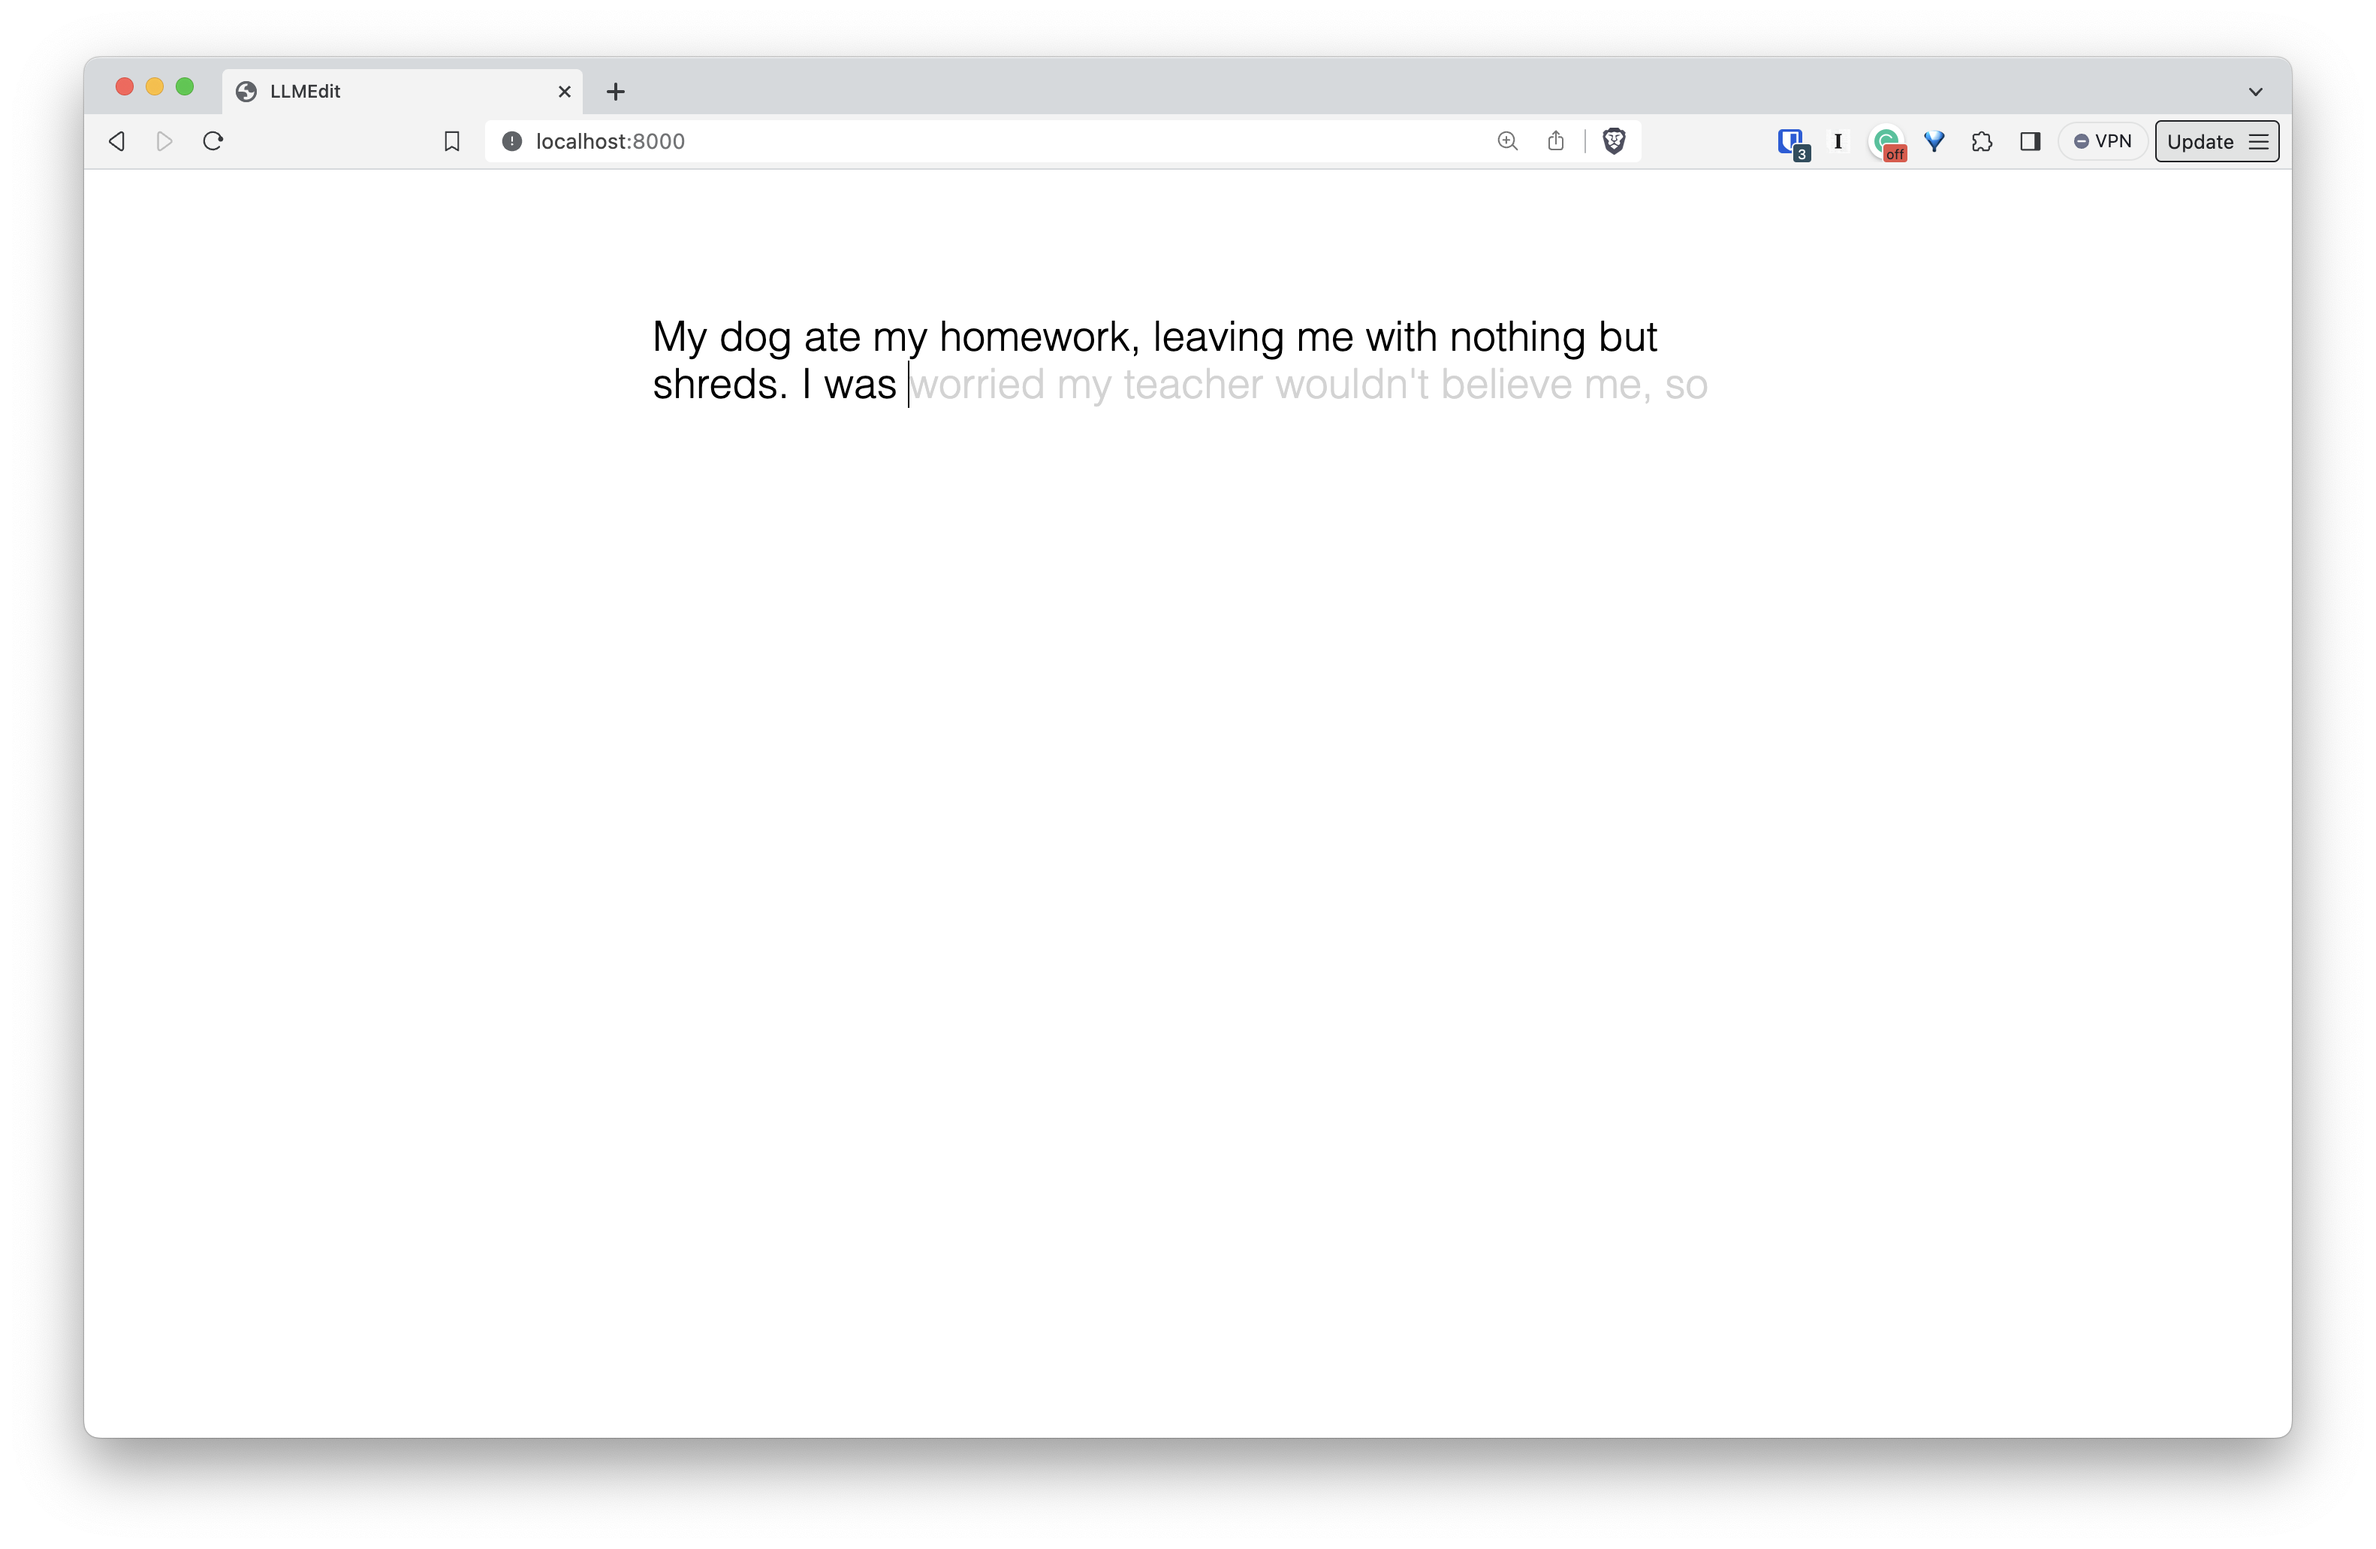
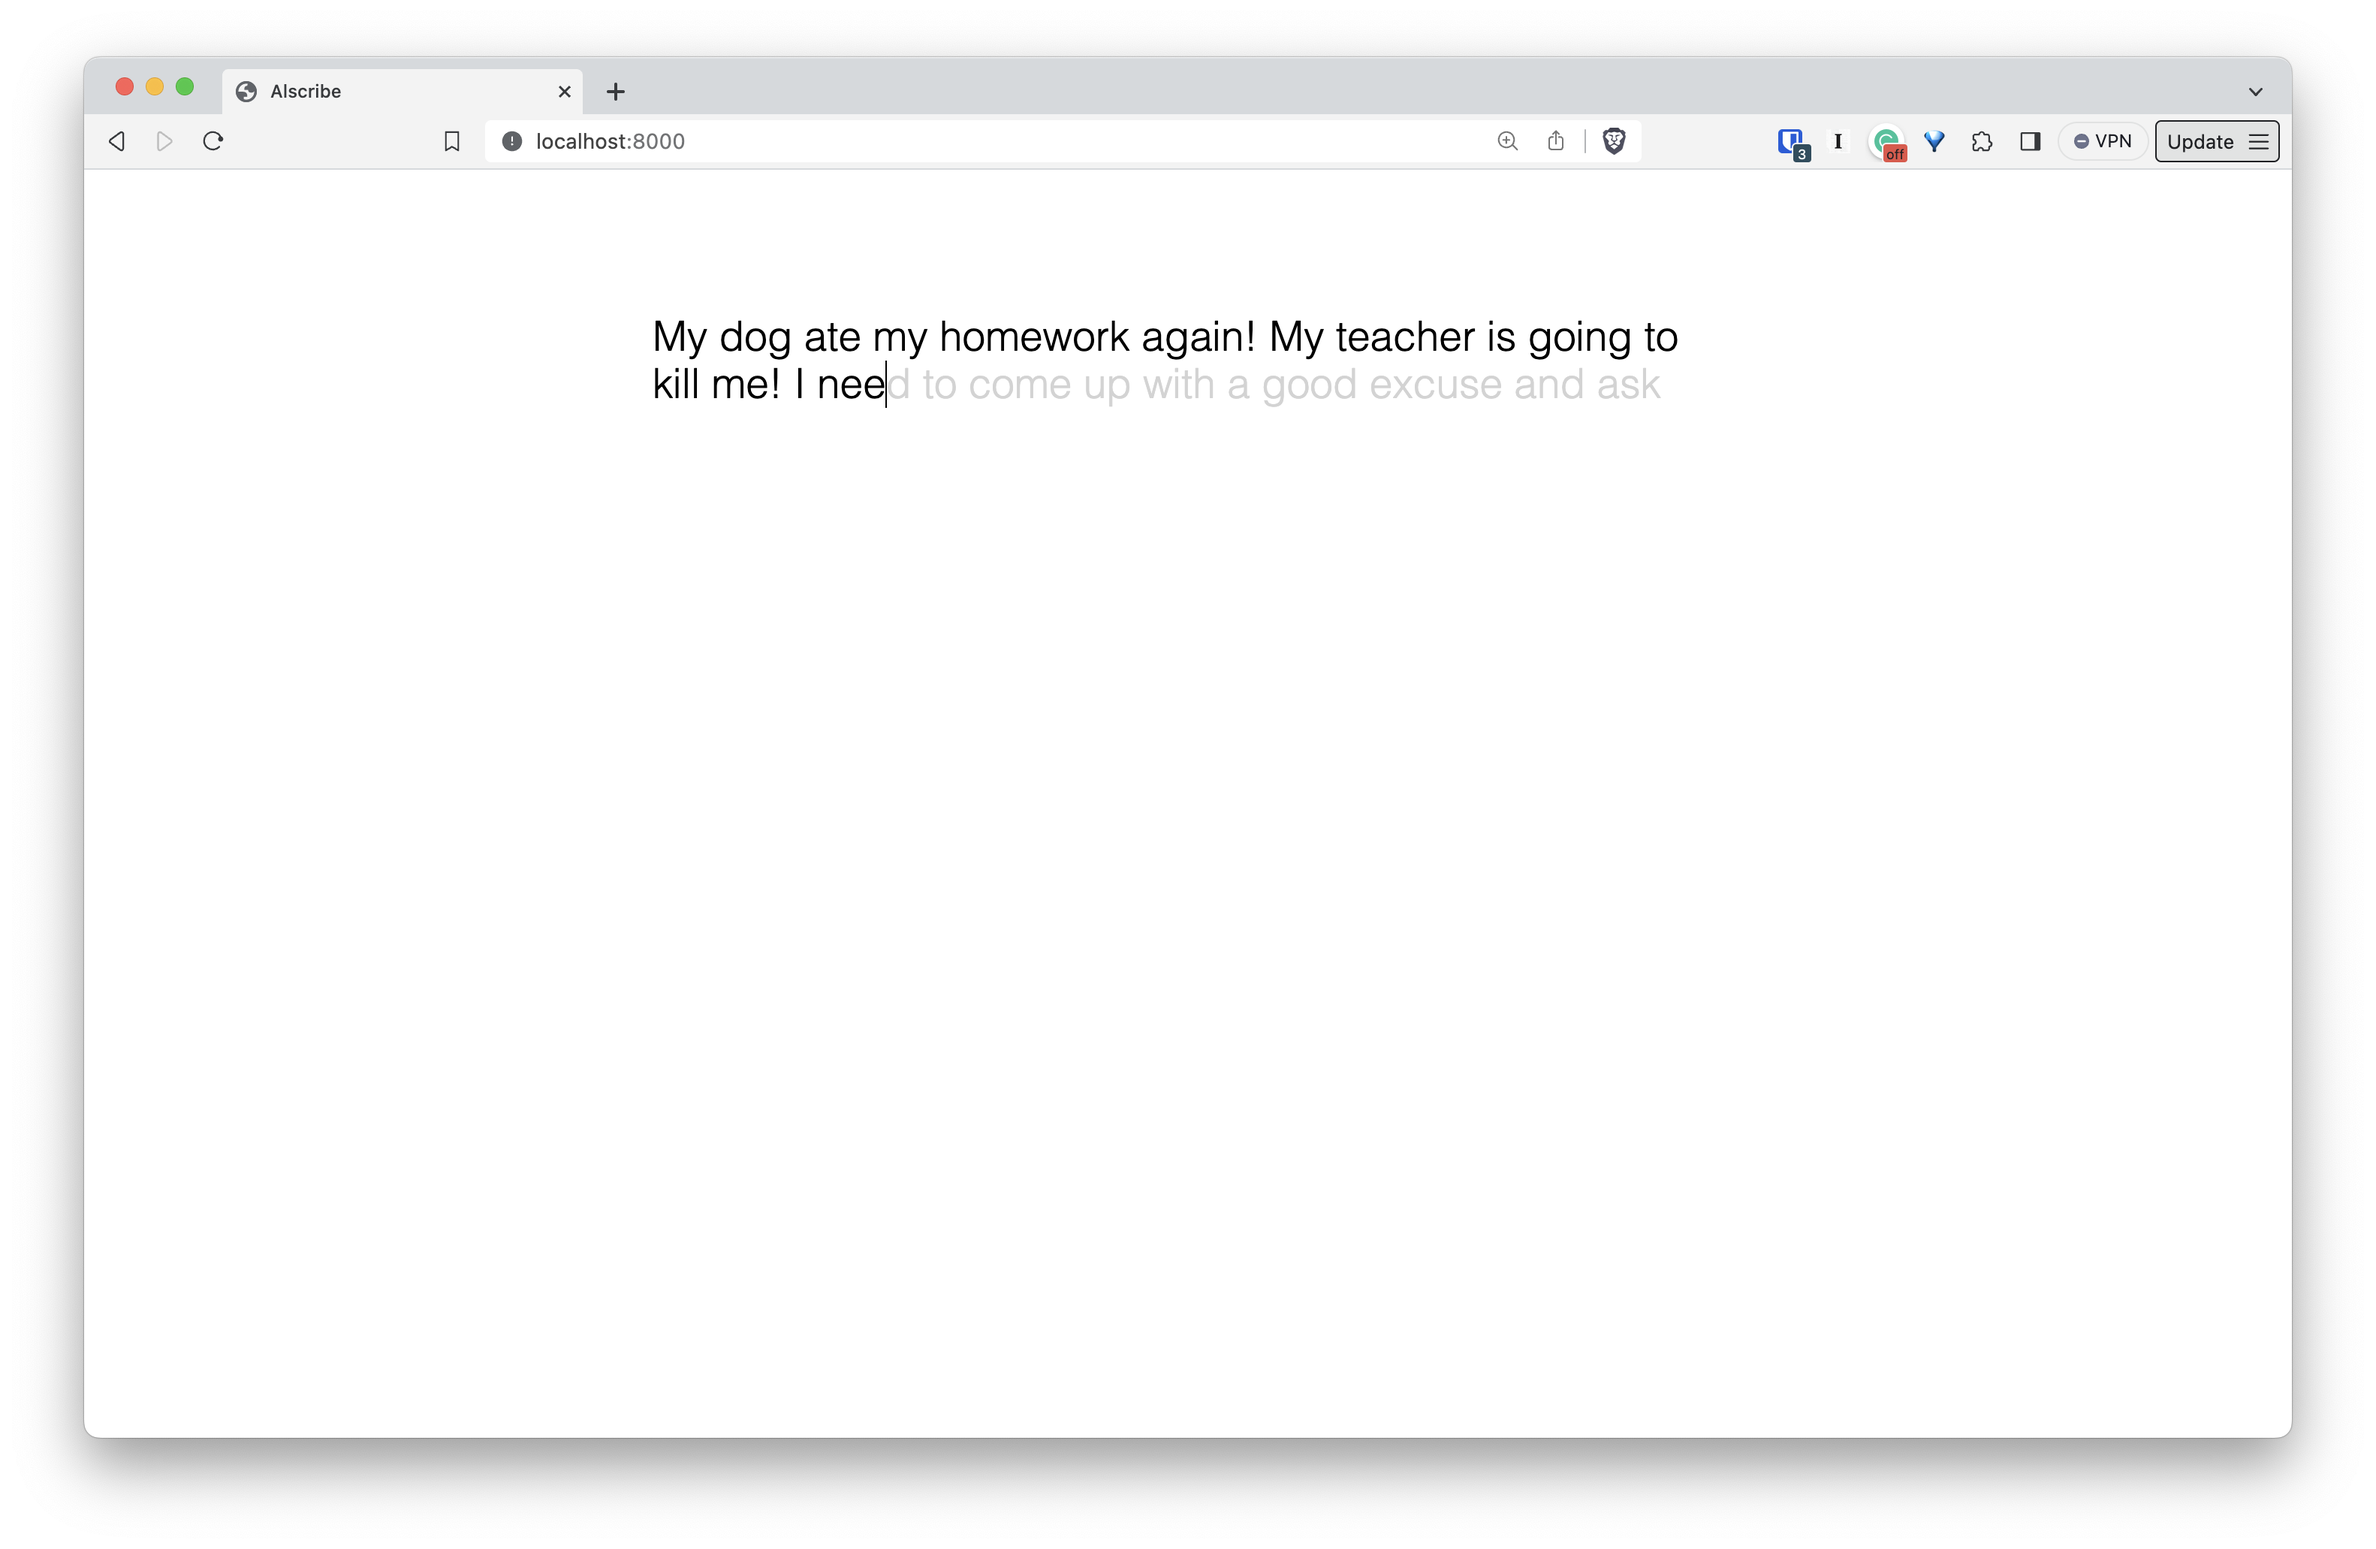
Revoked old key

Changed region(s): [[0.2788, 0.1862, 0.7124, 0.2793]]

diff --git a/script.js b/script.js
@@ -42,15 +42,15 @@ textInput.addEventListener('input', function() {
     localStorage.setItem('text', text);
 });
 
-// const apiKey = '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'; // Replace with your actual API key
 // get the api key from a local file 
 var apiKey = '';
 fetch("api_key.txt")
   .then((res) => res.text())
   .then((text) => {
     console.log(text);
+    // remove the newline character
     apiKey = text.trim();
-    // do something with "text"
+    // remove the newline character
    })
   .catch((e) => console.error(e));
 
@@ -68,7 +68,8 @@ async function sendGPTRequest () {
     console.log('Done typing.');
     console.log('Sending to GPT-3...');
     const data = {
-      model: 'gpt-4-1106-preview',
+      // model: 'gpt-4-1106-preview',
+      model: 'gpt-3.5-turbo-1106',
       messages: [
           {"role": "system", "content": "You are a writing assistant. Your task is to finish the sentence. You might need to add a space at the beginning."},
           {"role": "user", "content": textInput.innerText}
@@ -128,7 +129,7 @@ textInput.addEventListener('input', () => {
     gptTimer = setTimeout(() => {
         sendGPTRequest();
         // Display suggestions in autocompleteDiv
-    }, 200); // 500 ms delay after user stops typing
+    }, 500); // 500 ms delay after user stops typing
 });
 
 function updateAutocompletePosition() {

diff --git a/index.html b/index.html
@@ -1,7 +1,7 @@
 <!DOCTYPE html>
 <html>
 <head>
-    <title>LLMEdit</title>
+    <title>Alscribe</title>
     <link rel="stylesheet" type="text/css" href="style.css">
 </head>
 <body>
